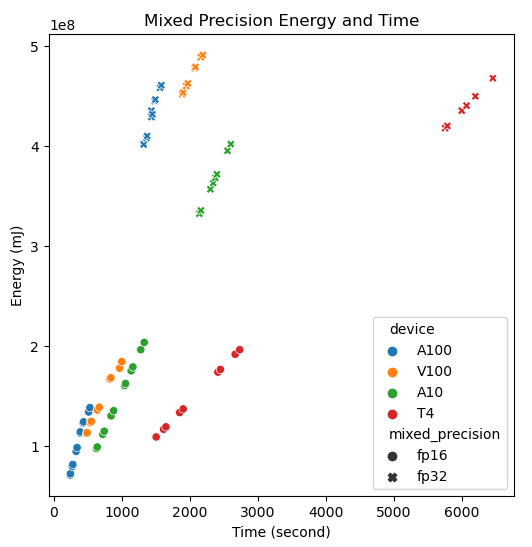
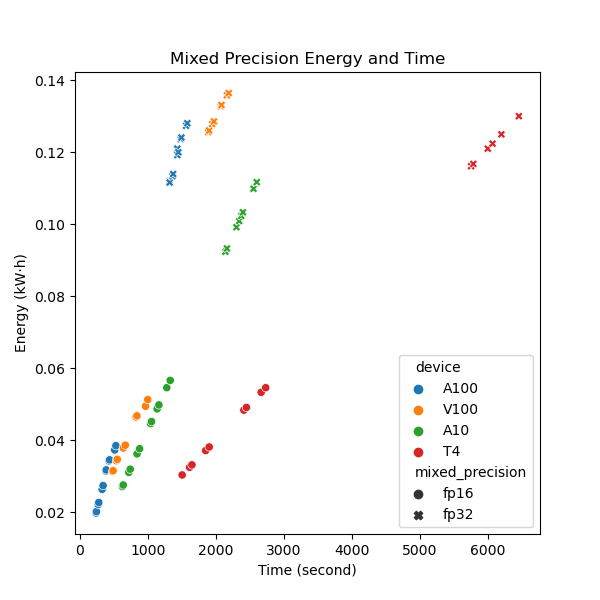
Update graphs

diff --git a/benchmark/systematic_graph.py b/benchmark/systematic_graph.py
@@ -5,6 +5,8 @@ import numpy as np
 
 # read the csv file
 df = pd.read_csv('profiling copy.csv')
+# convert energy from mJ to kW·h
+df['energy'] = df['energy'] / 3600000000
 # optimizer,mixed_precision,module,batch_size,device,time,energy,accuracy
 # x axis is the time, y axis is the energy for all graphs
 markers = {'V100': 's', 'A100': 'o', 'A10': 'X'}
@@ -21,7 +23,7 @@ device_color = "tab10"
 figs, ax = plt.subplots(2, 2, figsize=(12, 12))
 
 # 1st subplot, hue is optimizer
-ax[0, 1].set(xlabel='Time (second)', ylabel='Energy (mJ)')
+ax[0, 1].set(xlabel='Time (second)', ylabel='Energy (kW·h)')
 # subplot title
 ax[0, 1].set_title('(B) Training Energy and Time')
 # df without TPUv2 and TPUv3
@@ -39,7 +41,7 @@ ax[1, 0].set_title('(C) Training Cost and Time')
 sns.scatterplot(data=df, y='cost', x='time', hue='device', palette=device_color, ax=ax[1, 0])
 
 # 4th subplot, x is cost, y is energy
-ax[0, 0].set(ylabel='Cost ($)', xlabel='Energy (mJ)')
+ax[0, 0].set(ylabel='Cost ($)', xlabel='Energy (kW·h)')
 ax[0, 0].set_title('(A) Training Cost and Energy')
 sns.scatterplot(data=df[(df['device']!='TPUv2') & (df['device']!='TPUv3')], y='cost', x='energy', hue='device', palette=device_color, ax=ax[0, 0])
 
@@ -47,7 +49,7 @@ plt.savefig('overall_results_v3.png')
 
 # new figure for {v100 lightseq fused adan, batch size=16, 32}, {A100 huggingface fused adan, batch size=16 32}, {V100 huggingface fused adan, batch size=16 32}
 fig, ax = plt.subplots(1, 1, figsize=(6, 6))
-ax.set(xlabel='Time (second)', ylabel='Energy (mJ)')
+ax.set(xlabel='Time (second)', ylabel='Energy (kW·h)')
 ax.set_title('Software Optimization Energy and Time')
 df_1 = df[(df['device']=='V100') & (df['module']=='lightseq') & (df['optimizer']=='adan') & (df['batch_size']==16)]
 df_2 = df[(df['device']=='V100') & (df['module']=='lightseq') & (df['optimizer']=='adan') & (df['batch_size']==32)]
@@ -63,7 +65,7 @@ plt.savefig('Software_Optimization_v3.png')
 
 # new figure for mixed precision
 fig, ax = plt.subplots(1, 1, figsize=(6, 6))
-ax.set(xlabel='Time (second)', ylabel='Energy (mJ)')
+ax.set(xlabel='Time (second)', ylabel='Energy (kW·h)')
 ax.set_title('Mixed Precision Energy and Time')
 sns.scatterplot(data=df[(df['device']!='TPUv2') & (df['device']!='TPUv3')], x='time', y='energy', hue='device', palette=device_color, ax=ax, style='mixed_precision')
 plt.savefig('Mixed_Precision_v3.png')
